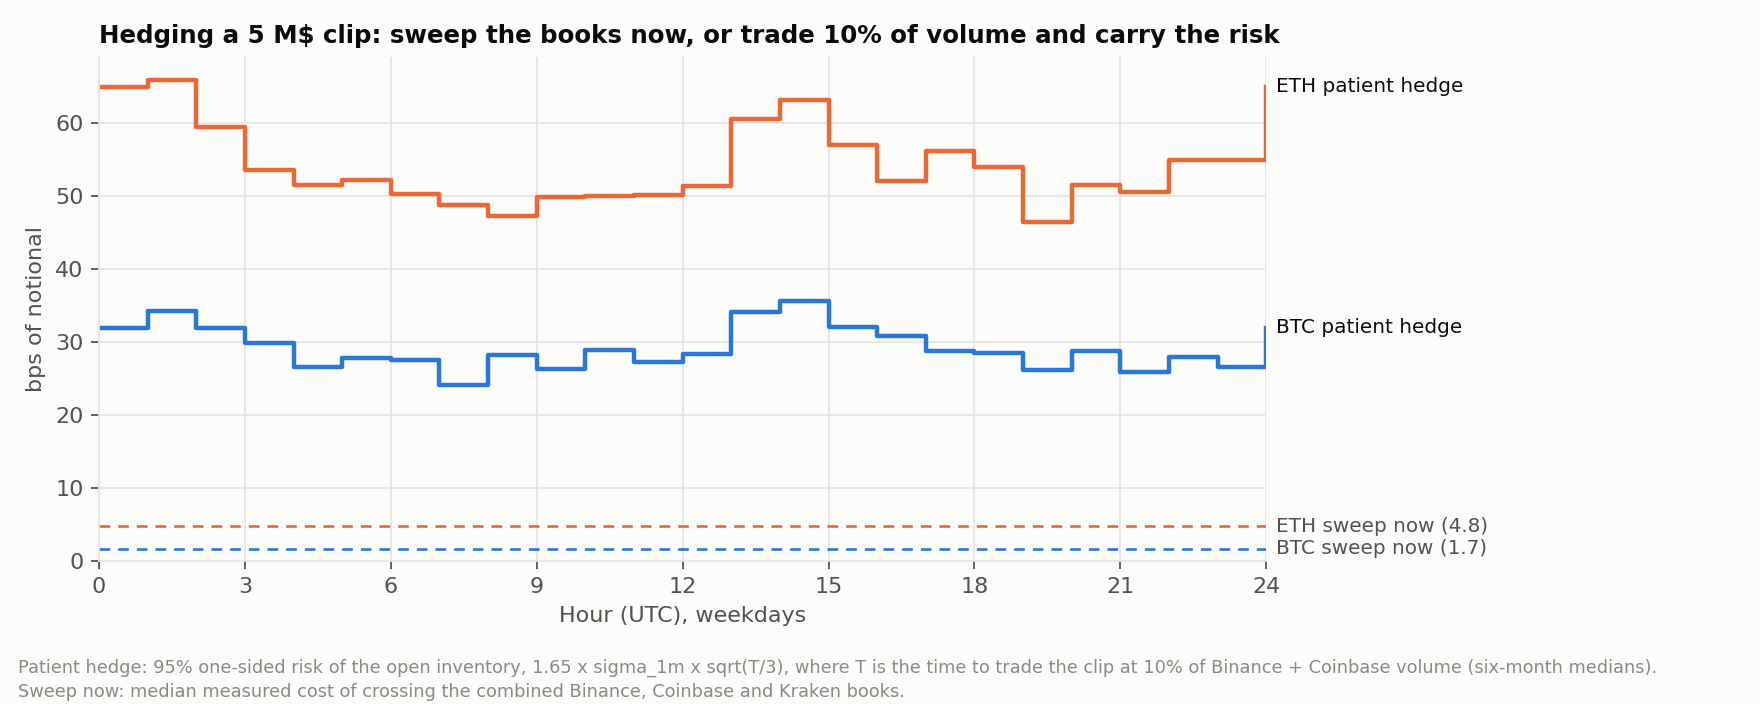
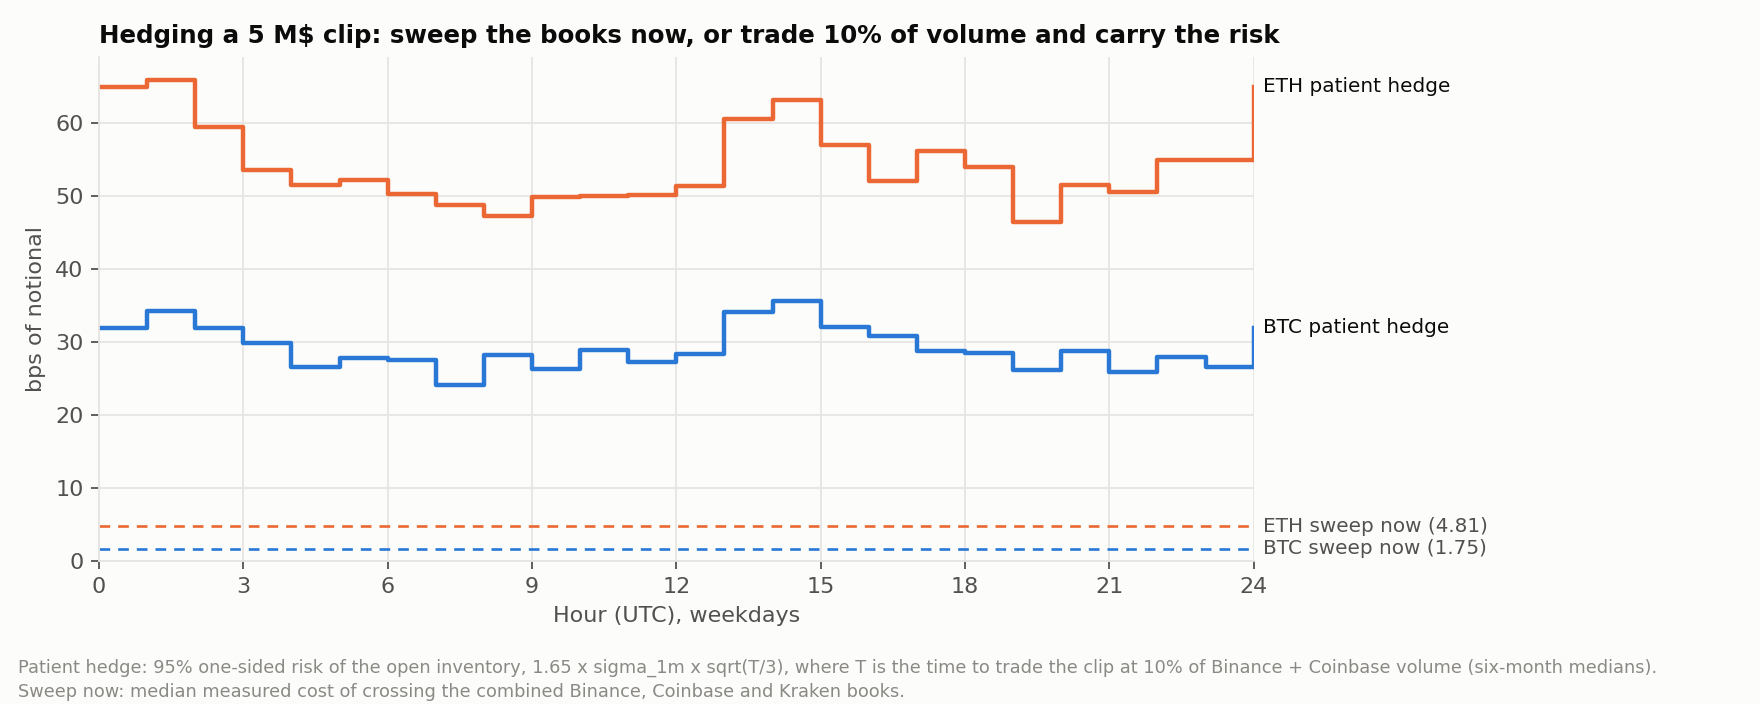
Chart labels with two decimals, matching the README (1.75 bps)

diff --git a/analysis/build.py b/analysis/build.py
@@ -51,7 +51,8 @@ plt.rcParams.update({
 
 # --------------------------------------------------------------------------- snapshots
 def load_snapshots():
-    m = pd.read_csv(os.path.join(DATA, "metrics.csv"), parse_dates=["ts_utc"])
+    path = os.environ.get("OTC_METRICS", os.path.join(DATA, "metrics.csv"))  # override to rebuild a past state
+    m = pd.read_csv(path, parse_dates=["ts_utc"])
     for s in SIZES:  # cost of a clip = average of the buy and sell sweeps
         m[f"cost_{s}m"] = m[[f"buy_{s}m_bps", f"sell_{s}m_bps"]].mean(axis=1, skipna=False)
     m["window"] = m["ts_utc"].map(window_of)
@@ -166,7 +167,7 @@ def fig_hedge(clocks, curve):
         ax.text(24.2, y[-1], f"{asset} patient hedge", va="center", fontsize=9, color=INK)
         sweep = curve.loc[(asset, "ALL3"), float(CLIP_MUSD)]
         ax.axhline(sweep, color=C[asset], lw=1.2, ls=(0, (4, 3)))
-        ax.text(24.2, sweep, f"{asset} sweep now ({sweep:.1f})", va="center", fontsize=9, color=INK2)
+        ax.text(24.2, sweep, f"{asset} sweep now ({sweep:.2f})", va="center", fontsize=9, color=INK2)
     ax.set_xlim(0, 24)
     ax.set_ylim(0, None)
     ax.set_xticks(range(0, 25, 3))
